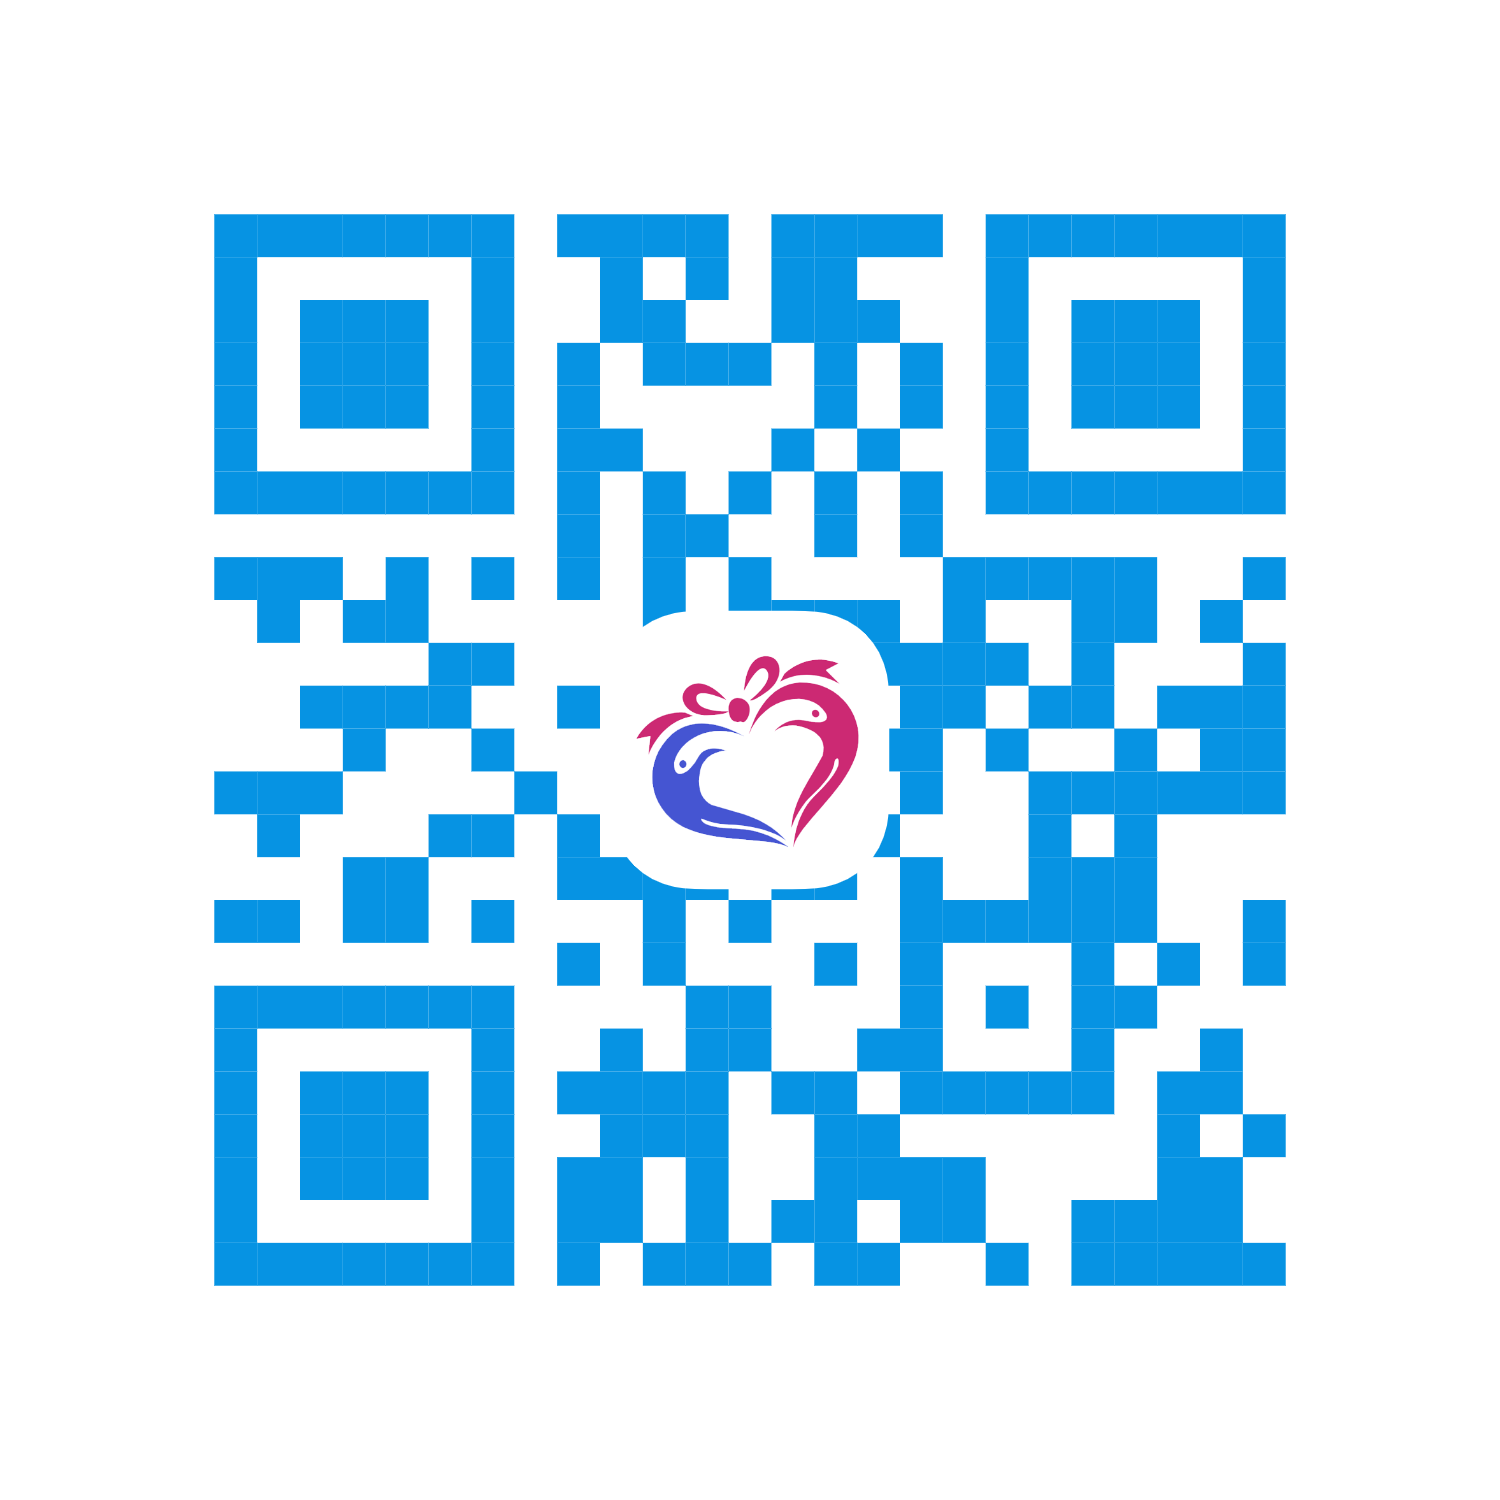
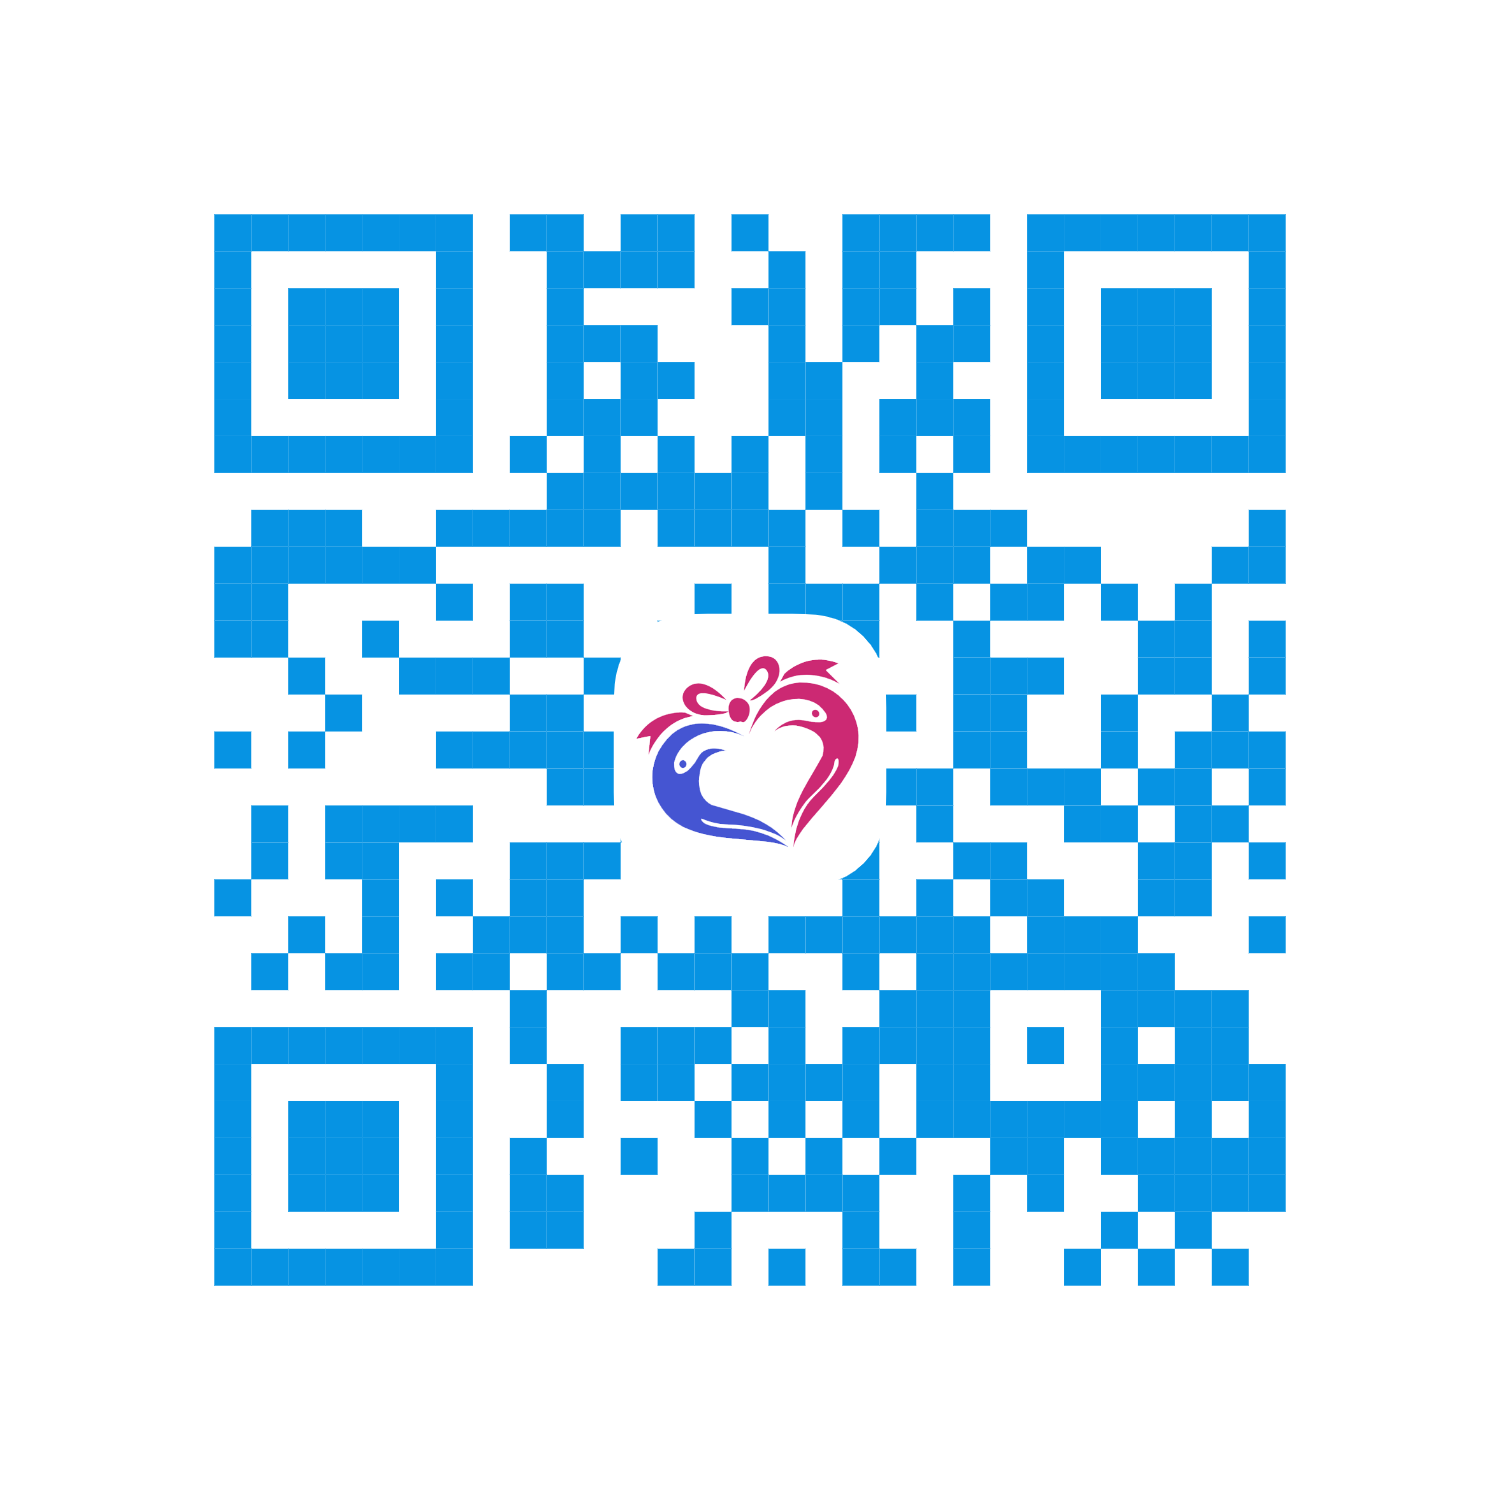
demo

Changed region(s): [[0.1227, 0.1227, 0.8587, 0.8587]]

diff --git a/api/templates/index_v2.html b/api/templates/index_v2.html
@@ -514,7 +514,7 @@
                   <div class="position-relative">
                     <img class="img-fluid-about" src="/static/website_v2/images/facebook_qrcode.png" alt="">
                     <div class="position-absolute start-50 top-100 translate-middle d-flex align-items-center">
-                      <a class="btn-outline-lg mx-1" href="https://www.facebook.com/101062282617110/"><i class="fa-brands fa-facebook-square" style="margin-right: 10px"></i>Follow</a>
+                      <a class="btn-outline-lg mx-1" href="https://www.facebook.com/unika.official.th/"><i class="fa-brands fa-facebook-square" style="margin-right: 10px"></i>Follow</a>
                     </div>
                   </div>
                   <div class="text-center p-4 mt-3">
